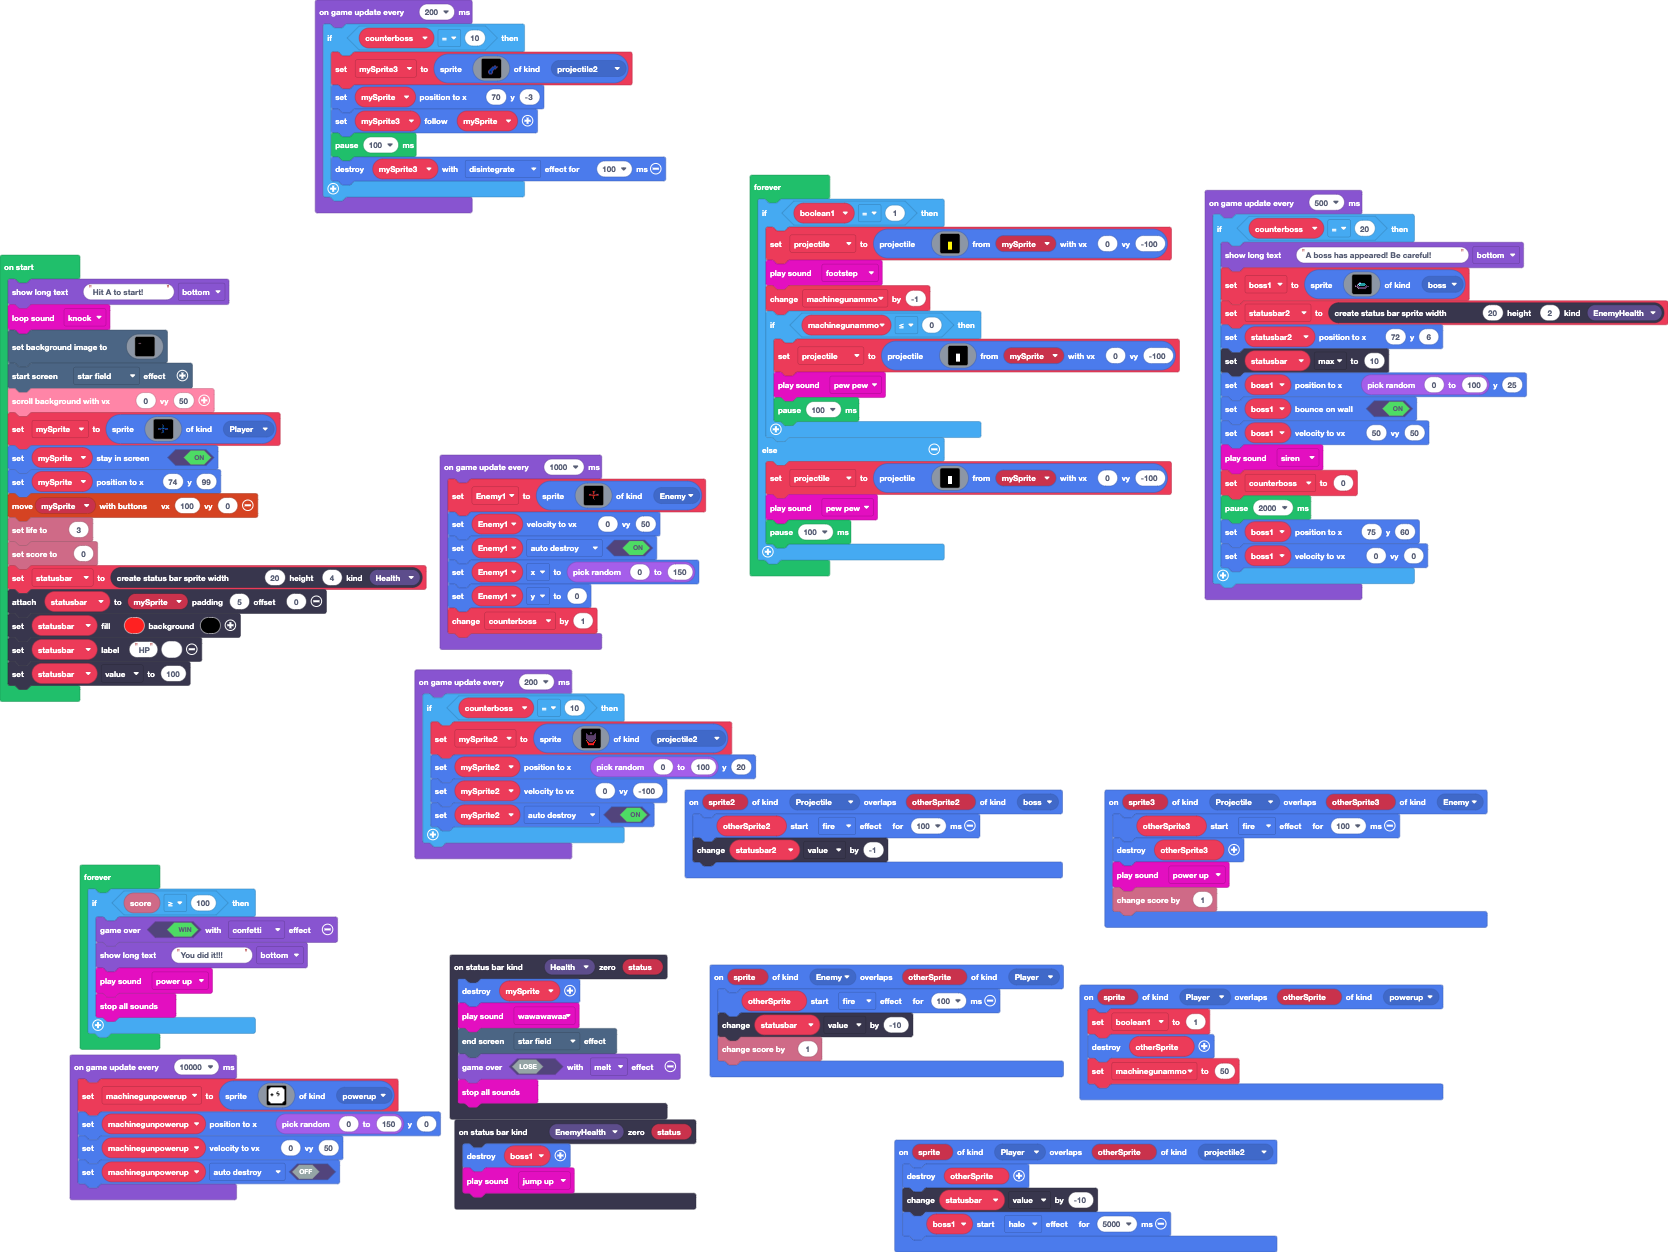
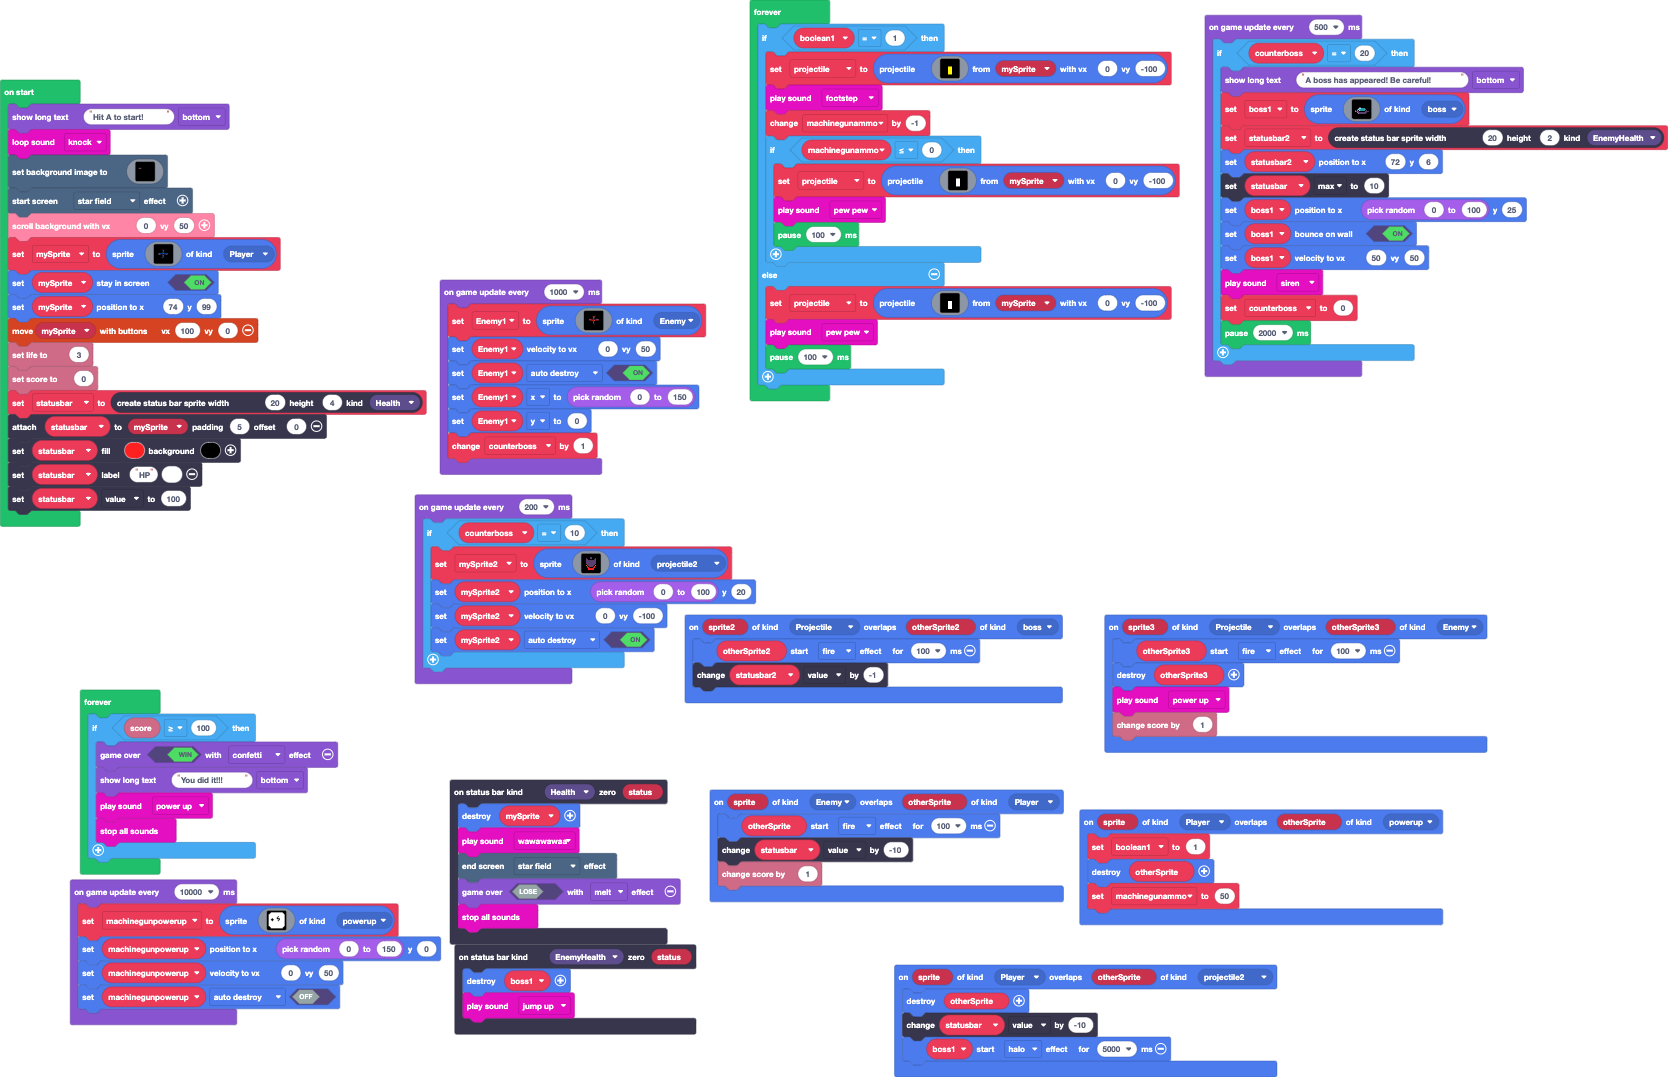
rollback- this is as complicated as the makecode can do

diff --git a/main.ts b/main.ts
@@ -45,7 +45,6 @@ sprites.onOverlap(SpriteKind.Projectile, SpriteKind.boss, function (sprite2, oth
 })
 let machinegunpowerup: Sprite = null
 let mySprite2: Sprite = null
-let mySprite3: Sprite = null
 let projectile: Sprite = null
 let counterboss = 0
 let Enemy1: Sprite = null
@@ -298,34 +297,6 @@ game.onUpdateInterval(500, function () {
         music.siren.play()
         counterboss = 0
         pause(2000)
-        boss1.setPosition(75, 60)
-        boss1.setVelocity(0, 0)
-    }
-})
-game.onUpdateInterval(200, function () {
-    if (counterboss == 10) {
-        mySprite3 = sprites.create(img`
-            . . . . . . . . . . . . . . . . 
-            . . . . . . . . . . . . . . . . 
-            . . . . . . . . . . . . . . . . 
-            . . . . . . . . . . . . . . . . 
-            . . . . . . . . . . . . . . . . 
-            . . . . . . . . . . . c c . . . 
-            . . . . . . . . . c c 8 8 c c . 
-            . . . . . . . . c 8 8 8 8 c . . 
-            . . . . . . . c 8 8 8 c c . . . 
-            . . . . . . c 8 8 8 c . . . . . 
-            . . . . . c 8 8 8 c . . . . . . 
-            . . . . . c 8 f 8 c . . . . . . 
-            . . . . . c 8 8 8 c . . . . . . 
-            . . . . . . c c c . . . . . . . 
-            . . . . . . . . . . . . . . . . 
-            . . . . . . . . . . . . . . . . 
-            `, SpriteKind.projectile2)
-        mySprite.setPosition(70, -3)
-        mySprite3.follow(mySprite)
-        pause(100)
-        mySprite3.destroy(effects.disintegrate, 100)
     }
 })
 game.onUpdateInterval(200, function () {
